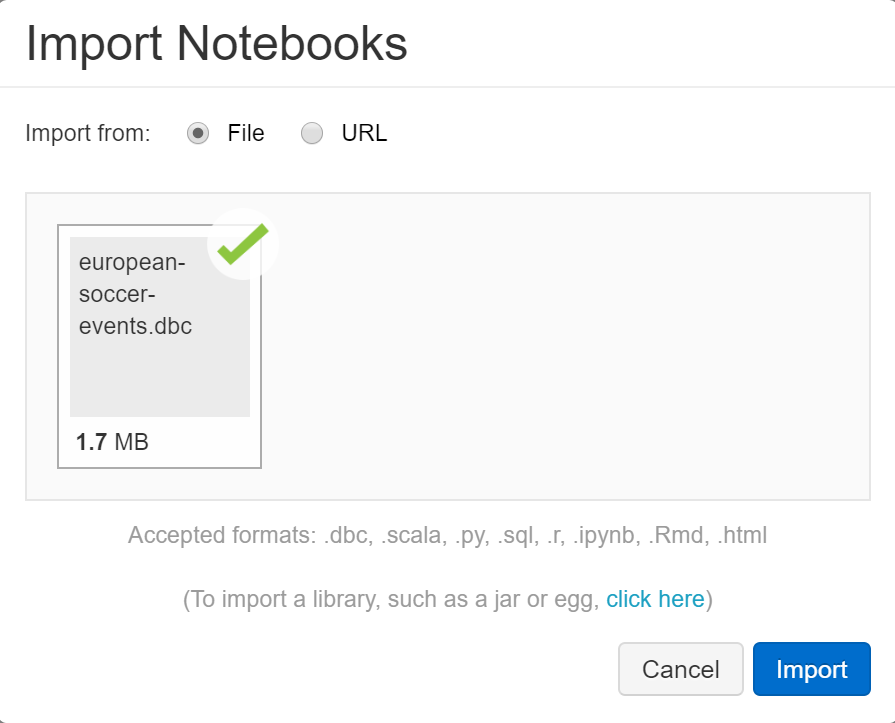
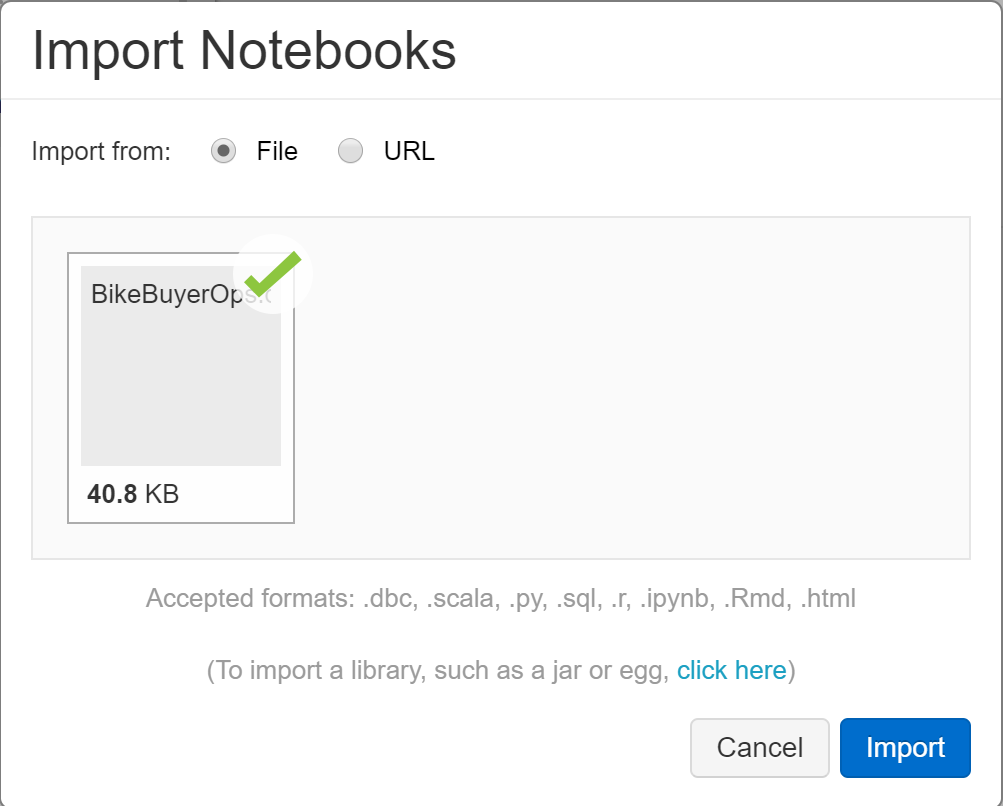
CLIarmUpdate

diff --git a/README.md b/README.md
@@ -64,7 +64,7 @@ After you open the resource group in the Azure portal you should see these deplo
 
 2. Navigate to the folder `MLonBigData\setup` If using **Windows Explorer** you can launch the command prompt by going to the address bar and typing `cmd` (for the Windows command prompt) or `bash` (for the Linux command prompt assuming it is installed already) and type `az --version` to check the installation.  Look for the `parameters-mlbigdata.json` file you cloned during the Prerequisites above.  
 
-3. When you logged in to the CLI in step 1 above you will see a json list of all the Azure account you have access to. Run `az account show` to see you current active account.  Run `az account list -o table` if you want to see all of you Azure account in a table. If you would like to switch to another Azure account run `az account set --subscription <your SubscriptionId>` to set the active subcription.  Run `az group create -n mlbigdata -l southcentralus` to create a resource group called `mlbigdata`.
+3. When you logged in to the CLI in step 1 above you will see a json list of all the Azure account you have access to. Run `az account show` to see you current active account.  Run `az account list -o table` if you want to see all of you Azure account in a table. If you would like to switch to another Azure account run `az account set --subscription <your SubscriptionId>` to set the active subcription.  Run `az group create -n mlbigdata -l southeastasia` to create a resource group called `mlbigdata`.
 
 4. Next run the following command to provision the Azure resources:
 ```
@@ -99,7 +99,7 @@ Click on `Workspace` in the left navigation bar and right-click on the user and 
 
 ![import](https://raw.githubusercontent.com/DataSnowman/MLonBigData/master/images/import.png)
 
-Select the dbc file that was cloned from the GitHub repo and click the `Import` button
+Select the BikeBuyerOps.dbc file that was cloned from the GitHub repo. The location should be MLonBigData\BikeBuyer\ADBnotebooks Click the `Import` button
 
 ![importNotebooks](https://raw.githubusercontent.com/DataSnowman/MLonBigData/master/images/importNotebooks.png)
 
